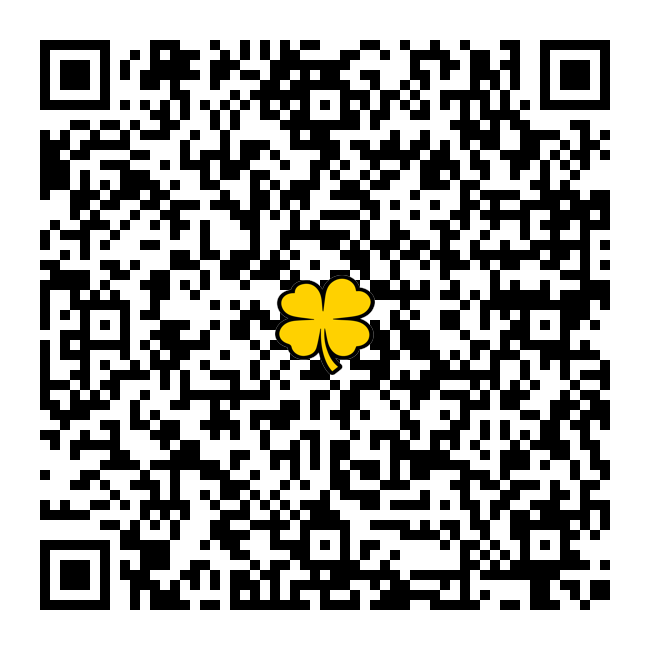
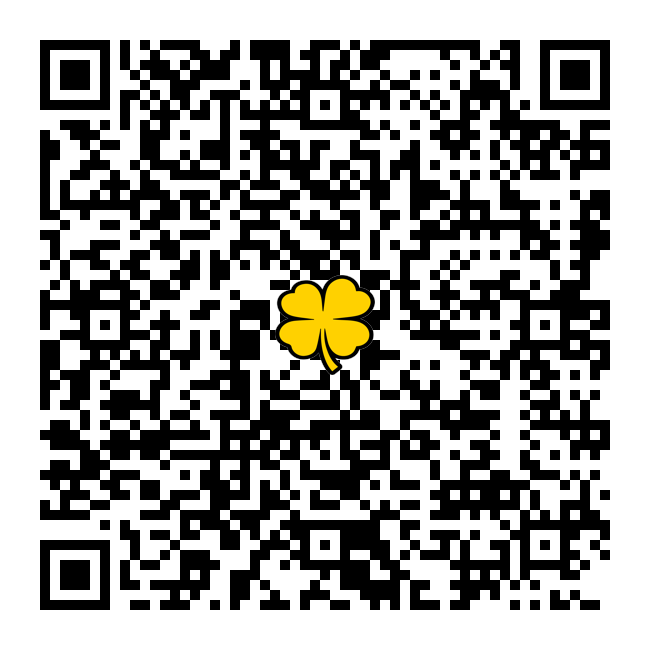
cambio de numeros

diff --git a/src/components/PremioCard.tsx b/src/components/PremioCard.tsx
@@ -88,7 +88,7 @@ export default function CarruselPremios() {
         <div className="premio-info">
           <span>Sorteo: 1 Dic 2025</span>
           <span>·</span>
-          <span>9999 números</span>
+          <span>10000 números</span>
         </div>
 
         <div className="contador">

diff --git a/qr.py b/qr.py
@@ -3,7 +3,7 @@ from PIL import Image
 import os
 
 # URL del proyecto
-url = "https://numero-dorado-club.vercel.app"
+url = "https://numerodoradoclub.com/"
 logo_path = "logo.png"  # Asegúrate que tenga fondo transparente
 
 # Validar existencia del logo
